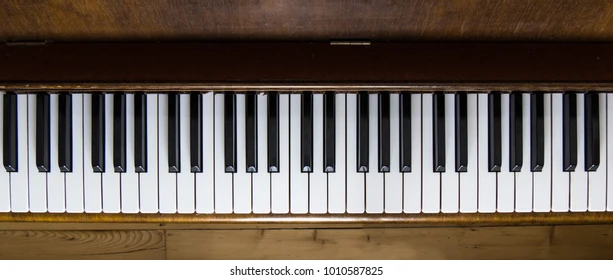
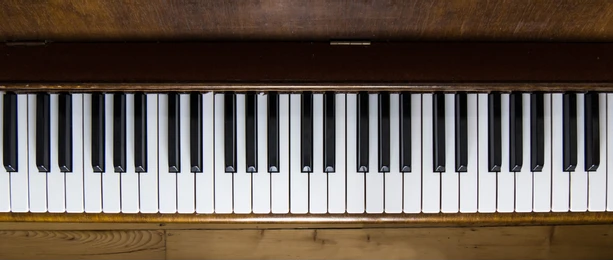
currently attempting hough transform, cropped image2 to remove watermarkg

diff --git a/test2.py b/test2.py
@@ -22,14 +22,14 @@ def sobel_hough_fill_holes(image_path, threshold=127, output_path='binary_output
     gradient_magnitude = np.sqrt(sobel_x**2 + sobel_y**2)
     gradient_magnitude = np.uint8(gradient_magnitude)
 
-    ret, gradient_thresh = cv2.threshold(gradient_magnitude, 150, 255, cv2.THRESH_BINARY) 
+    #ret, gradient_thresh = cv2.threshold(gradient_magnitude, 150, 255, cv2.THRESH_BINARY) 
 
 
 
     lines = cv2.HoughLinesP(gradient_magnitude, 
                             rho=1, 
                             theta=np.pi/180, 
-                            threshold=600, 
+                            threshold=100, 
                             minLineLength=100, 
                             maxLineGap=10)
 
@@ -47,8 +47,10 @@ def sobel_hough_fill_holes(image_path, threshold=127, output_path='binary_output
     cv2.imshow('gray', gray)
     cv2.imshow('gray_threst', gray_thresh)
     cv2.imshow('Gradient Magnitude (Sobel)', gradient_magnitude)
+
     #cv2.imshow('sobel threst', gradient_thresh)
-    #cv2.imshow('Hough', line_image)
+
+    cv2.imshow('Hough', line_image)
 
     
     cv2.waitKey(0)
